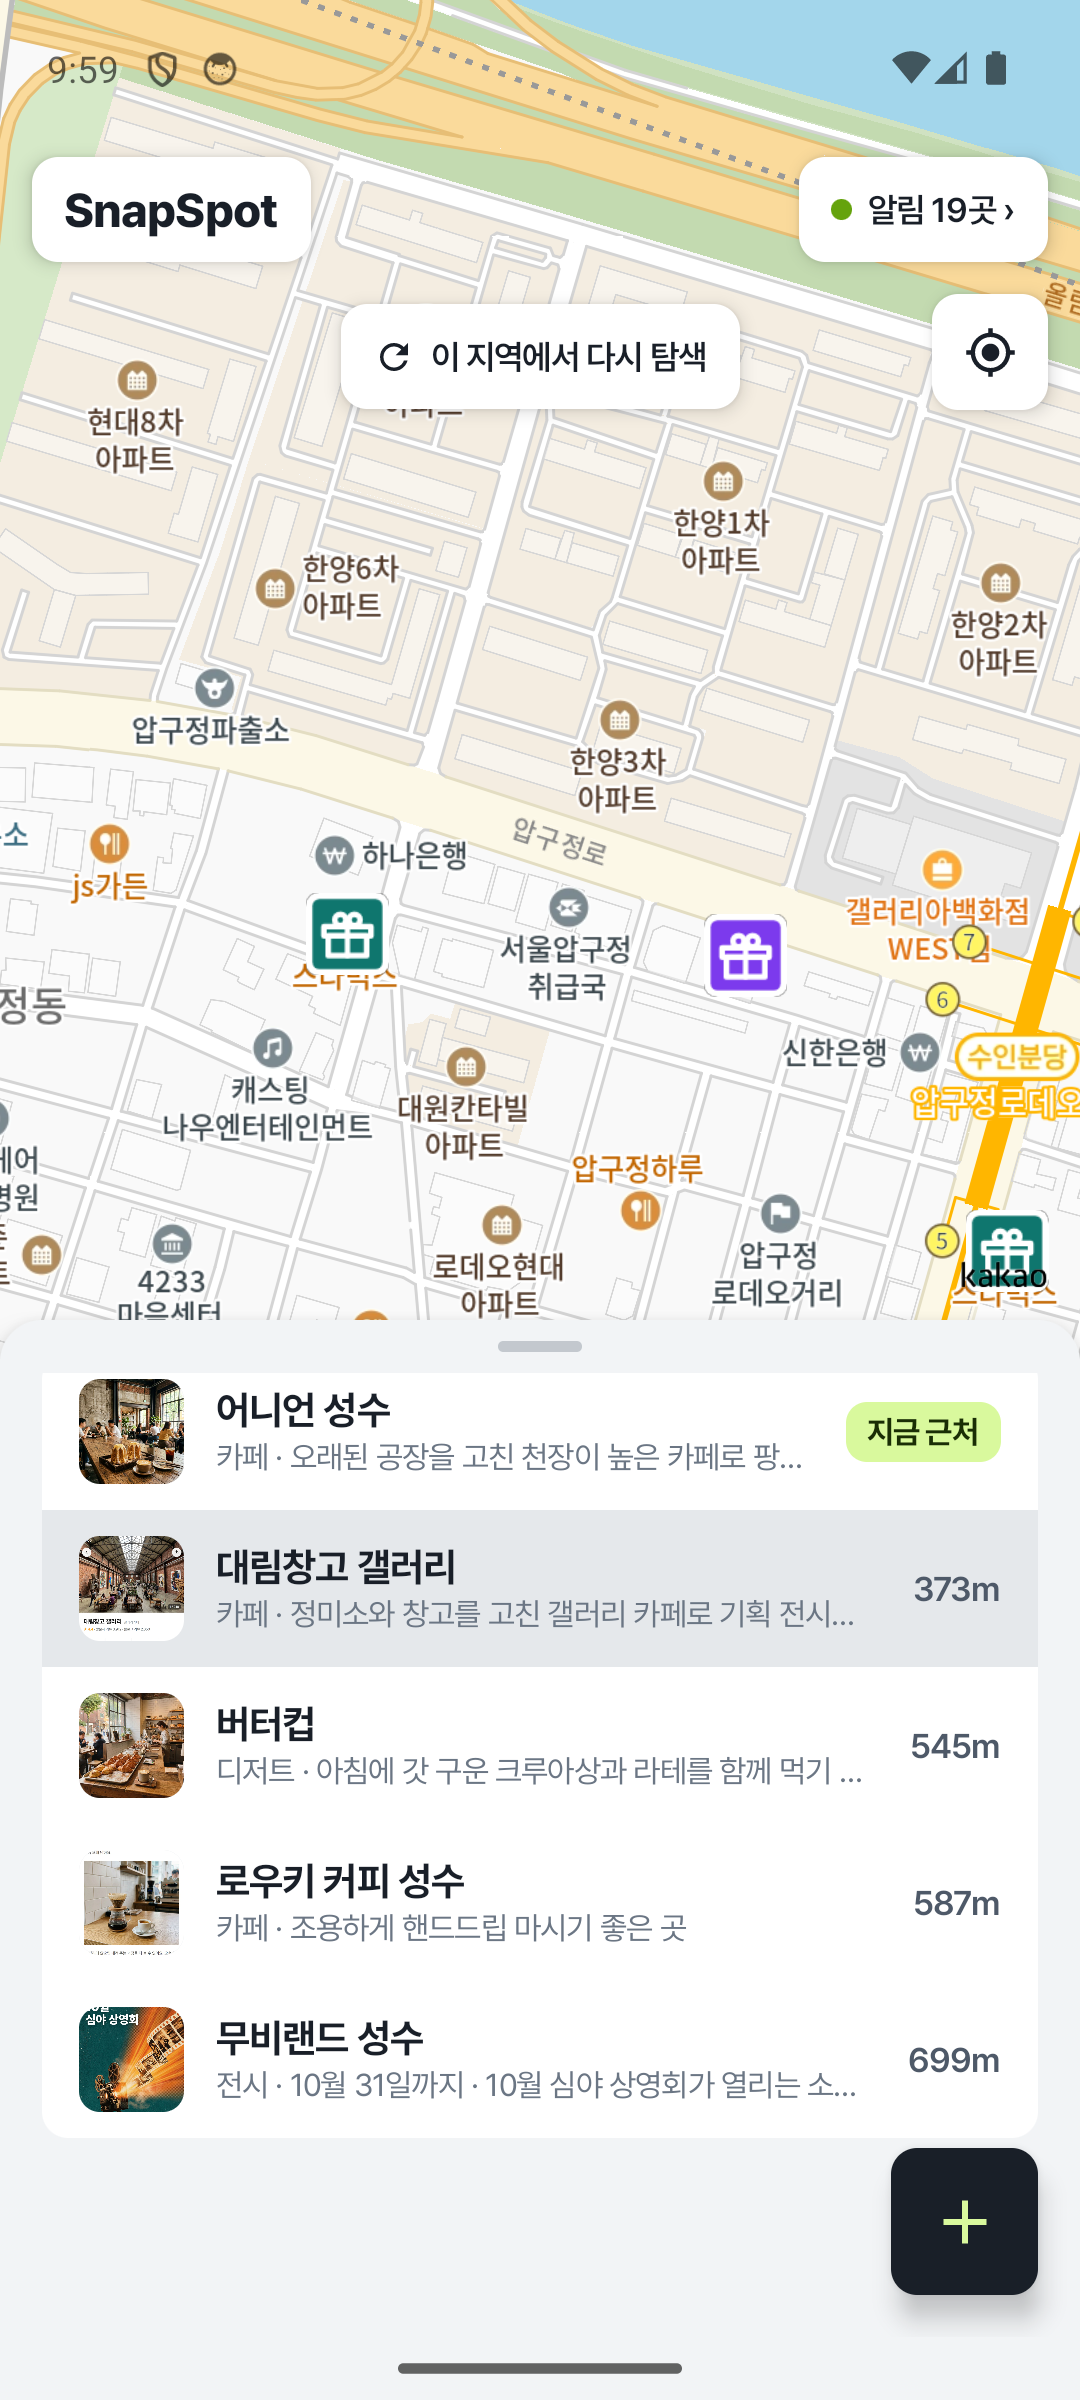
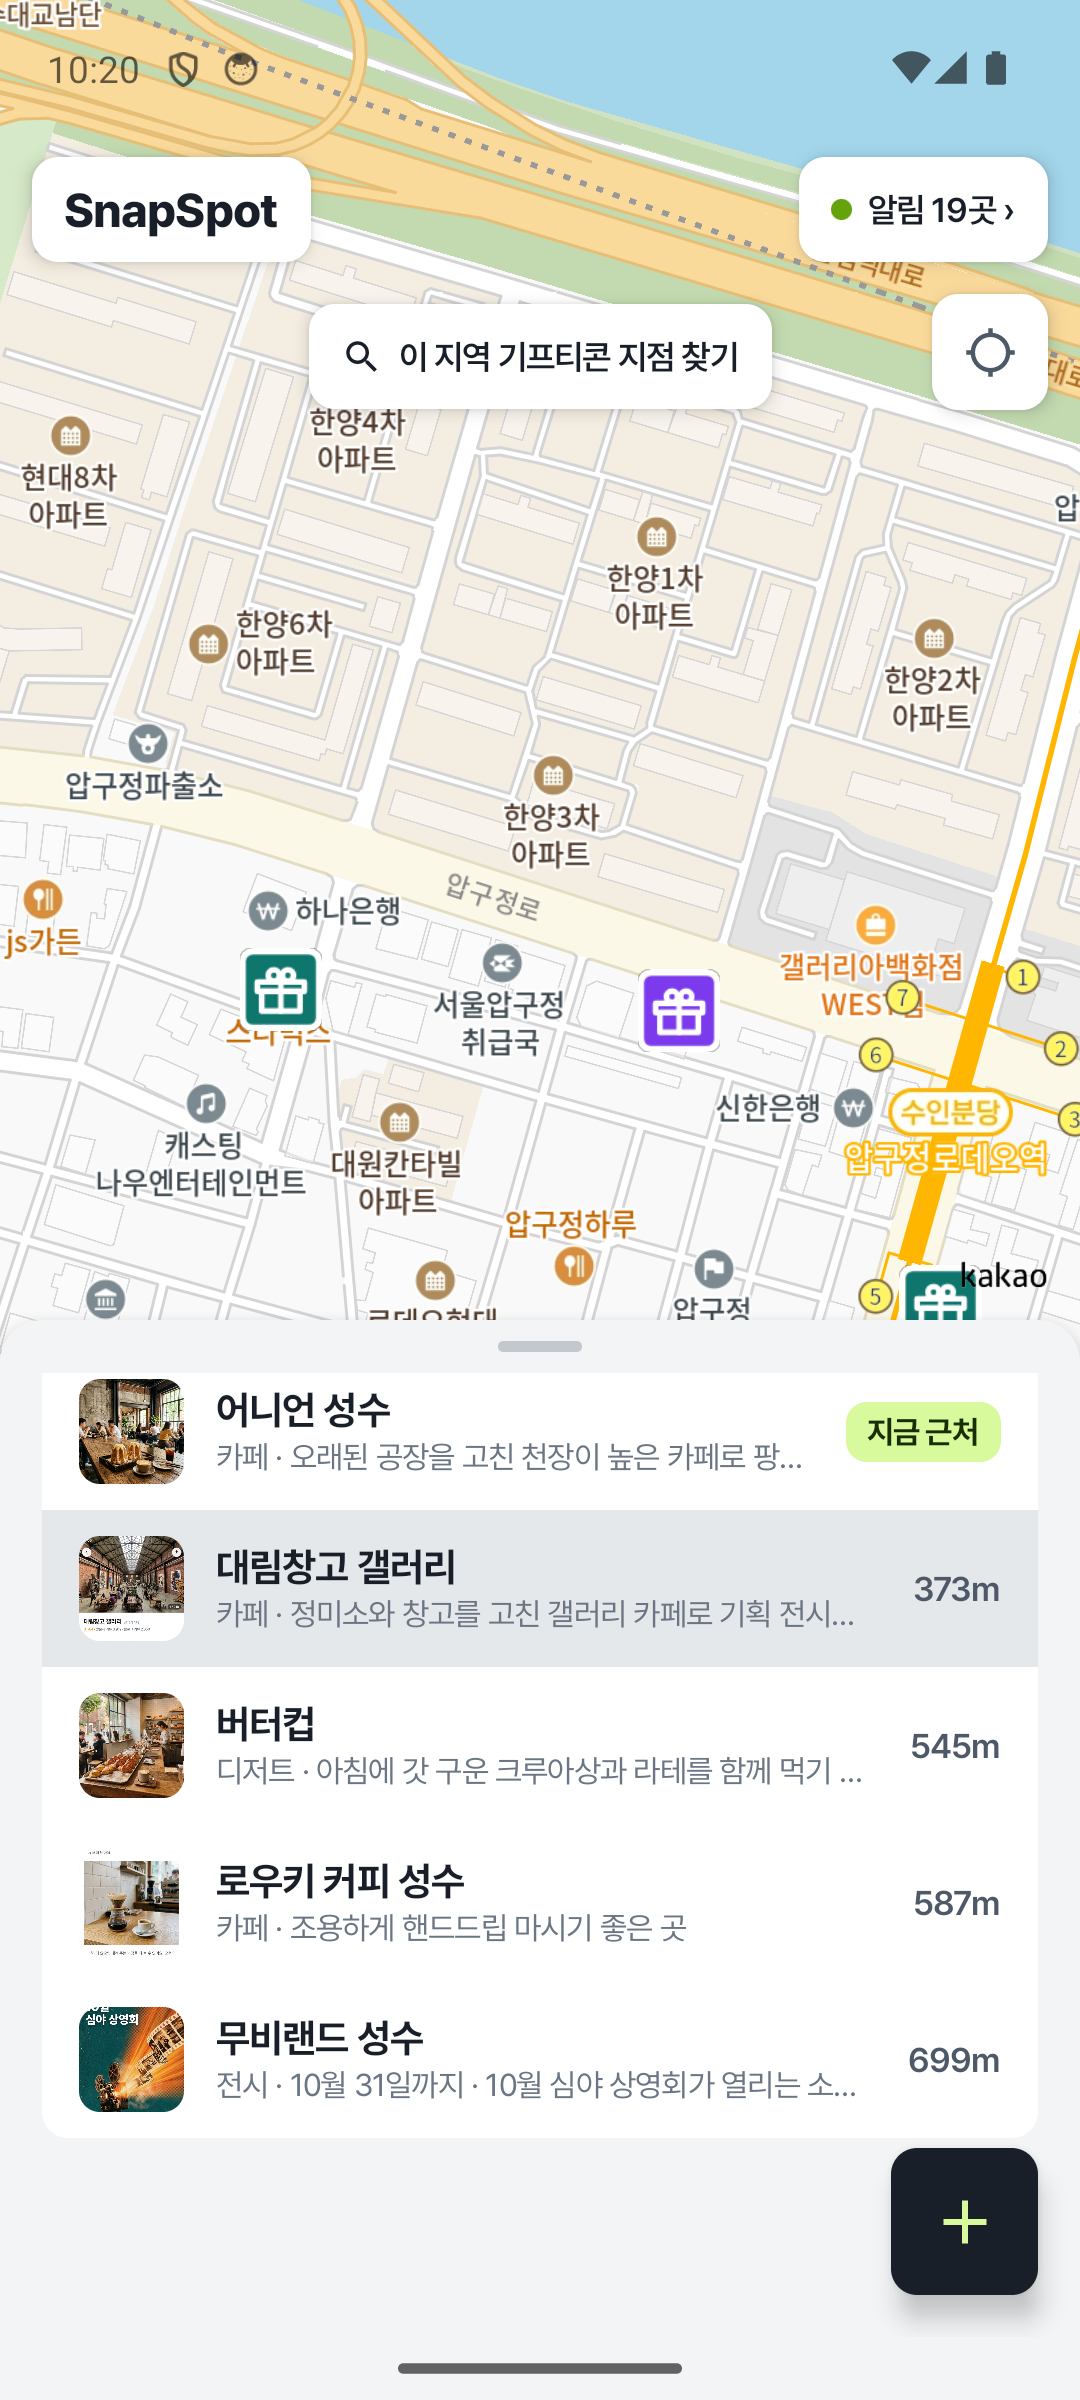
design: clearer swipe hint, follow state on the location button, place card drag to close, plainer copy
- Gifticon screen: dots plus "2장 중 1번째 · 옆으로 넘겨 보세요" above the title, replacing 6dp dots under the status bar.
- Location button: filled blue icon while the map follows the user, hollow grey once it stops.
- Place card: lighter shade so the tapped pin stays visible, a handle, and drag down to close.
- Copy: "카카오맵에서 보기", "이 지역 기프티콘 지점 찾기" with a search icon.
- README: updated text and screenshots, plus the gifticon swipe screen.

Changed region(s): [[0.0, 0.0, 1.0, 0.5625]]

diff --git a/app/src/main/java/com/capstone/snapspot/ui/home/HomeScreen.kt b/app/src/main/java/com/capstone/snapspot/ui/home/HomeScreen.kt
@@ -6,6 +6,9 @@ import androidx.compose.foundation.background
 import androidx.compose.foundation.border
 import androidx.compose.foundation.clickable
 import androidx.compose.foundation.combinedClickable
+import androidx.compose.foundation.gestures.Orientation
+import androidx.compose.foundation.gestures.draggable
+import androidx.compose.foundation.gestures.rememberDraggableState
 import androidx.compose.foundation.layout.Arrangement
 import androidx.compose.foundation.layout.Box
 import androidx.compose.foundation.layout.BoxWithConstraints
@@ -19,6 +22,7 @@ import androidx.compose.foundation.layout.fillMaxWidth
 import androidx.compose.foundation.layout.height
 import androidx.compose.foundation.layout.navigationBars
 import androidx.compose.foundation.layout.navigationBarsPadding
+import androidx.compose.foundation.layout.offset
 import androidx.compose.foundation.layout.padding
 import androidx.compose.foundation.layout.size
 import androidx.compose.foundation.layout.statusBarsPadding
@@ -32,8 +36,9 @@ import androidx.compose.foundation.shape.RoundedCornerShape
 import androidx.compose.material.icons.Icons
 import androidx.compose.material.icons.automirrored.filled.ArrowBack
 import androidx.compose.material.icons.filled.Add
+import androidx.compose.material.icons.filled.LocationSearching
 import androidx.compose.material.icons.filled.MyLocation
-import androidx.compose.material.icons.filled.Refresh
+import androidx.compose.material.icons.filled.Search
 import androidx.compose.material3.BottomSheetScaffold
 import androidx.compose.material3.ExperimentalMaterial3Api
 import androidx.compose.material3.Icon
@@ -46,6 +51,7 @@ import androidx.compose.runtime.Composable
 import androidx.compose.runtime.LaunchedEffect
 import androidx.compose.runtime.collectAsState
 import androidx.compose.runtime.getValue
+import androidx.compose.runtime.mutableFloatStateOf
 import androidx.compose.runtime.mutableStateOf
 import androidx.compose.runtime.remember
 import androidx.compose.runtime.rememberCoroutineScope
@@ -57,6 +63,7 @@ import androidx.compose.ui.draw.alpha
 import androidx.compose.ui.draw.clip
 import androidx.compose.ui.draw.shadow
 import androidx.compose.ui.graphics.Shape
+import androidx.compose.ui.platform.LocalDensity
 import androidx.compose.ui.platform.LocalUriHandler
 import androidx.compose.ui.text.SpanStyle
 import androidx.compose.ui.text.buildAnnotatedString
@@ -64,6 +71,7 @@ import androidx.compose.ui.text.font.FontWeight
 import androidx.compose.ui.text.style.TextAlign
 import androidx.compose.ui.text.style.TextOverflow
 import androidx.compose.ui.text.withStyle
+import androidx.compose.ui.unit.IntOffset
 import androidx.compose.ui.unit.dp
 import androidx.compose.ui.unit.sp
 import com.capstone.snapspot.core.BRANCH_RADIUS_M
@@ -105,6 +113,7 @@ import com.capstone.snapspot.ui.theme.SnapColors
 import com.capstone.snapspot.ui.theme.SnapShapes
 import com.capstone.snapspot.ui.theme.SnapSpace
 import com.capstone.snapspot.ui.theme.SnapType
+import kotlin.math.roundToInt
 import kotlinx.coroutines.launch
 
 private enum class Tab { PLACES, COUPONS }
@@ -381,7 +390,15 @@ fun HomeScreen(
                     Modifier.align(Alignment.TopEnd).statusBarsPadding().padding(top = 60.dp, end = 12.dp).size(44.dp)
                         .shadow(4.dp, SnapShapes.card).clip(SnapShapes.card).background(SnapColors.surface).clickable { vm.focusHere() },
                     contentAlignment = Alignment.Center,
-                ) { Icon(Icons.Filled.MyLocation, contentDescription = "내 위치로", tint = SnapColors.ink, modifier = Modifier.size(20.dp)) }
+                ) {
+                    // Filled and blue while the map follows the user; hollow once a hand has moved it away.
+                    Icon(
+                        if (following) Icons.Filled.MyLocation else Icons.Filled.LocationSearching,
+                        contentDescription = if (following) "지도가 내 위치를 따라가는 중" else "내 위치로",
+                        tint = if (following) SnapColors.me else SnapColors.ink2,
+                        modifier = Modifier.size(20.dp),
+                    )
+                }
                 // After moving the map by hand far from the last search: look up gifticon branches there.
                 val rest = camera
                 if (open == null && !following && rest != null && coupons.any { it.active }) {
@@ -390,9 +407,9 @@ fun HomeScreen(
                         FloatingChip(chip) { Text("지도를 확대하면 지점을 찾을 수 있어요", style = SnapType.label) }
                     } else if (needsMapSearch(searchAt, rest.first)) {
                         FloatingChip(chip, onClick = { vm.searchMap(rest.first) }) {
-                            Icon(Icons.Filled.Refresh, contentDescription = null, tint = SnapColors.ink, modifier = Modifier.size(16.dp))
+                            Icon(Icons.Filled.Search, contentDescription = null, tint = SnapColors.ink, modifier = Modifier.size(16.dp))
                             Gap(6.dp)
-                            Text("이 지역에서 다시 탐색", style = SnapType.label.copy(color = SnapColors.ink))
+                            Text("이 지역 기프티콘 지점 찾기", style = SnapType.label.copy(color = SnapColors.ink))
                         }
                     }
                 }
@@ -423,20 +440,35 @@ fun HomeScreen(
     }
 }
 
-/** A place's card over the map: its screenshot, category, end date and note. Tapping outside closes it. */
+/** Dragged down this far, the place card closes. */
+private val CARD_DISMISS = 96.dp
+
+/**
+ * A place's card over the map: its screenshot, category, end date and note. A light shade keeps the tapped pin
+ * visible; tapping outside or dragging the card down closes it.
+ */
 @Composable
 private fun PlaceCard(p: Place, now: Long, onRoute: (() -> Unit)?, onClose: () -> Unit) {
     val uri = LocalUriHandler.current
     val ended = placeEnded(p, now)
+    val dismissPx = with(LocalDensity.current) { CARD_DISMISS.toPx() }
+    var drag by remember(p.id) { mutableFloatStateOf(0f) }
     Box(
-        Modifier.fillMaxSize().background(SnapColors.ink.copy(alpha = 0.35f)).clickable(onClickLabel = "닫기", onClick = onClose),
+        Modifier.fillMaxSize().background(SnapColors.ink.copy(alpha = 0.15f)).clickable(onClickLabel = "닫기", onClick = onClose),
         contentAlignment = Alignment.BottomCenter,
     ) {
         Column(
-            Modifier.fillMaxWidth().clip(SnapShapes.sheet).background(SnapColors.surface)
-                .clickable(enabled = false, onClick = {}).navigationBarsPadding().padding(SnapSpace.gutter),
+            Modifier.offset { IntOffset(0, drag.roundToInt()) }
+                .draggable(
+                    rememberDraggableState { drag = (drag + it).coerceAtLeast(0f) },
+                    Orientation.Vertical,
+                    onDragStopped = { if (drag > dismissPx) onClose() else drag = 0f },
+                )
+                .shadow(8.dp, SnapShapes.sheet).fillMaxWidth().clip(SnapShapes.sheet).background(SnapColors.surface)
+                .clickable(enabled = false, onClick = {}).navigationBarsPadding().padding(start = SnapSpace.gutter, end = SnapSpace.gutter, bottom = SnapSpace.gutter),
             verticalArrangement = Arrangement.spacedBy(SnapSpace.gutter),
         ) {
+            Box(Modifier.fillMaxWidth(), contentAlignment = Alignment.Center) { SheetHandle() }
             Row {
                 Shot(p.imageUri, 72.dp, 96.dp, modifier = if (ended) Modifier.alpha(0.5f) else Modifier)
                 Gap(SnapSpace.card)
@@ -458,7 +490,7 @@ private fun PlaceCard(p: Place, now: Long, onRoute: (() -> Unit)?, onClose: () -
                 }
             }
             Row(Modifier.fillMaxWidth(), horizontalArrangement = Arrangement.spacedBy(SnapSpace.gap)) {
-                p.placeUrl?.let { url -> SecondaryButton("카카오 상세", { runCatching { uri.openUri(url) } }, Modifier.weight(1f)) }
+                p.placeUrl?.let { url -> SecondaryButton("카카오맵에서 보기", { runCatching { uri.openUri(url) } }, Modifier.weight(1f)) }
                 if (onRoute != null) PrimaryButton("동선 보기", onRoute, Modifier.weight(1f))
                 else SecondaryButton("닫기", onClose, Modifier.weight(1f))
             }

diff --git a/app/src/main/java/com/capstone/snapspot/ui/coupon/CouponScreen.kt b/app/src/main/java/com/capstone/snapspot/ui/coupon/CouponScreen.kt
@@ -62,7 +62,7 @@ import com.capstone.snapspot.ui.theme.SnapType
 
 /**
  * The coupon `id`. When its brand has other active coupons, a swipe left and right goes through them,
- * soonest-expiring first, with dots above the header saying which one is open.
+ * soonest-expiring first, with a hint above the title saying which one is open ([SwipeHint]).
  */
 @Composable
 fun CouponScreen(vm: HomeViewModel, id: String, onClose: () -> Unit) {
@@ -76,23 +76,30 @@ fun CouponScreen(vm: HomeViewModel, id: String, onClose: () -> Unit) {
         return
     }
     val pager = rememberPagerState(initialPage = group.indexOfFirst { it.id == id }.coerceAtLeast(0)) { group.size }
-    Box(Modifier.fillMaxSize().background(SnapColors.surface)) {
-        HorizontalPager(pager, Modifier.fillMaxSize(), key = { group[it].id }) { page ->
-            CouponPage(vm, all.firstOrNull { it.id == group[page].id } ?: group[page], onClose)
+    HorizontalPager(pager, Modifier.fillMaxSize().background(SnapColors.surface), key = { group[it].id }) { page ->
+        CouponPage(vm, all.firstOrNull { it.id == group[page].id } ?: group[page], onClose, page to group.size)
+    }
+}
+
+/** "2장 중 1번째" with a dot per coupon: says there is more to swipe to. */
+@Composable
+private fun SwipeHint(index: Int, count: Int, modifier: Modifier = Modifier) {
+    Row(
+        modifier.clearAndSetSemantics { contentDescription = "같은 브랜드 기프티콘 ${count}장 중 ${index + 1}번째, 옆으로 넘겨 다른 기프티콘을 볼 수 있어요" },
+        verticalAlignment = Alignment.CenterVertically,
+    ) {
+        repeat(count) { i ->
+            Dot(if (i == index) SnapColors.ink else SnapColors.line, 8.dp)
+            Gap(5.dp)
         }
-        val position = "${group.size}장 중 ${pager.currentPage + 1}번째"
-        Row(
-            Modifier.align(Alignment.TopCenter).statusBarsPadding().padding(top = 4.dp).clearAndSetSemantics { contentDescription = position },
-            horizontalArrangement = Arrangement.spacedBy(6.dp),
-        ) {
-            repeat(group.size) { i -> Dot(if (i == pager.currentPage) SnapColors.ink else SnapColors.line, 6.dp) }
-        }
+        Gap(3.dp)
+        Text("${count}장 중 ${index + 1}번째 · 옆으로 넘겨 보세요", style = SnapType.meta)
     }
 }
 
 /** One coupon, sized for the counter: the screenshot (with its barcode) as large as the screen allows. */
 @Composable
-private fun CouponPage(vm: HomeViewModel, c: Coupon?, onClose: () -> Unit) {
+private fun CouponPage(vm: HomeViewModel, c: Coupon?, onClose: () -> Unit, position: Pair<Int, Int>? = null) {
     val win by vm.window.collectAsState()
     val here by vm.here.collectAsState()
     var menu by remember { mutableStateOf(false) }
@@ -136,6 +143,7 @@ private fun CouponPage(vm: HomeViewModel, c: Coupon?, onClose: () -> Unit) {
             Modifier.weight(1f).verticalScroll(rememberScrollState()).padding(horizontal = SnapSpace.gutter),
             verticalArrangement = Arrangement.spacedBy(12.dp),
         ) {
+            position?.let { (i, n) -> SwipeHint(i, n, Modifier.padding(horizontal = 4.dp)) }
             BigTitle(c.brand, c.benefit, Modifier.padding(horizontal = 4.dp, vertical = 4.dp))
             Row(Modifier.padding(horizontal = 4.dp), verticalAlignment = Alignment.CenterVertically) {
                 Text(
